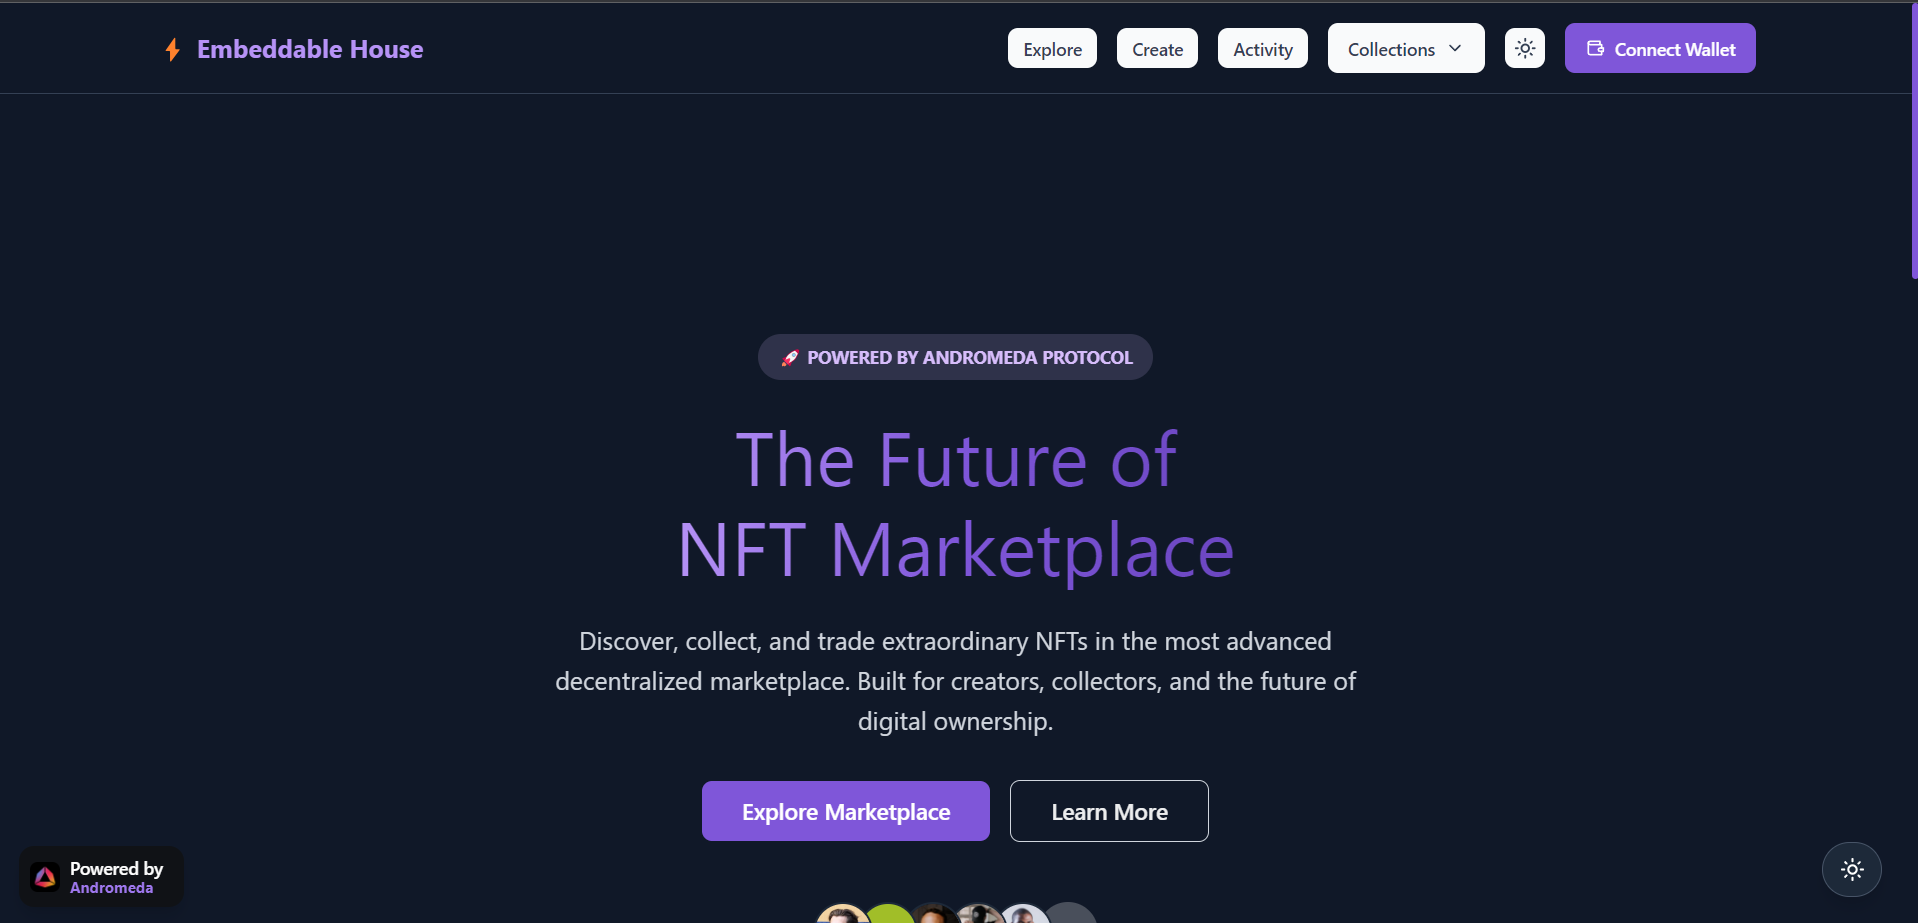
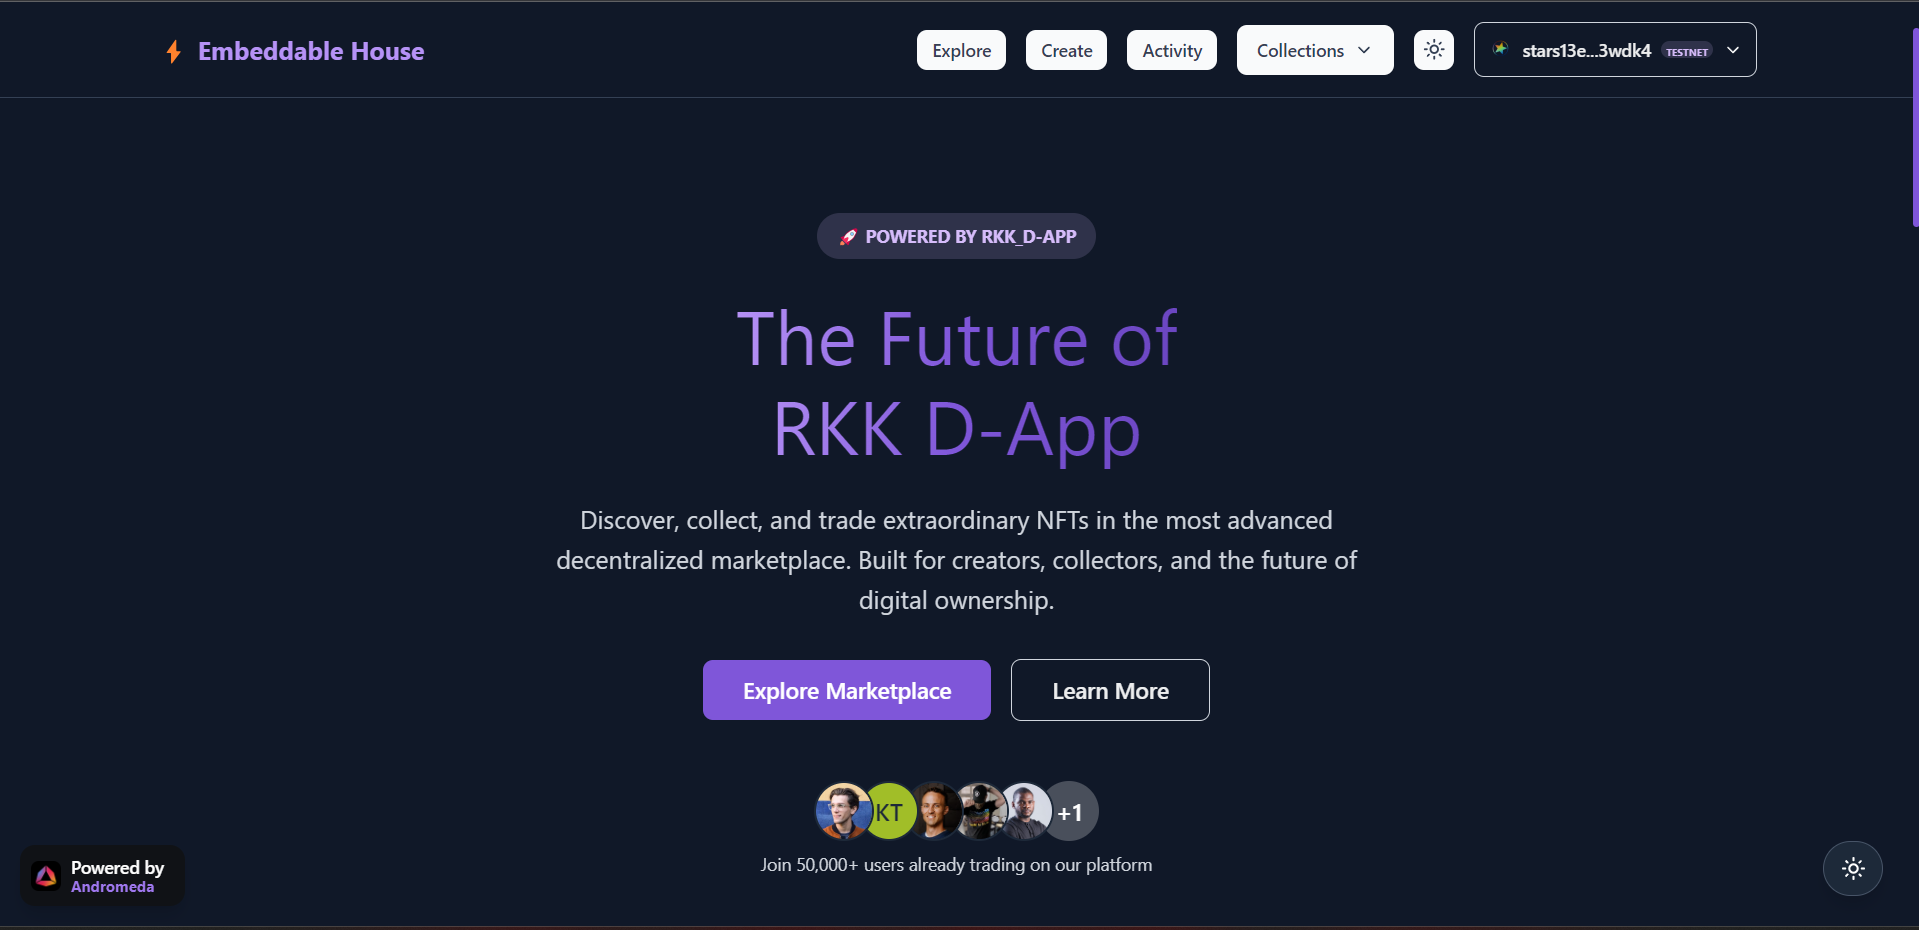
Update in UI

diff --git a/src/modules/home/components/LandingPage.tsx b/src/modules/home/components/LandingPage.tsx
@@ -108,7 +108,7 @@ const LandingPage: FC<LandingPageProps> = ({ onGetStarted }) => {
                             "tw-backdrop-blur-sm"
                         )}
                     >
-                        🚀 Powered by Andromeda Protocol
+                        🚀 Powered by RKK_D-App
                     </Badge>
 
                     <Heading
@@ -124,7 +124,7 @@ const LandingPage: FC<LandingPageProps> = ({ onGetStarted }) => {
                     >
                         The Future of
                         <br />
-                        NFT Marketplace
+                        RKK D-App
                     </Heading>
 
                     <Text

diff --git a/README.md b/README.md
@@ -4,13 +4,13 @@
 
 ![Andromeda Protocol](./public/logo.png)
 
-**A modern, responsive NFT marketplace built with Next.js and powered by Andromeda Protocol**
+**A modern, responsive RKK_D-App built with Next.js and powered by Andromeda Protocol**
 
 [![Next.js](https://img.shields.io/badge/Next.js-13.5.2-black?style=flat-square&logo=next.js)](https://nextjs.org/)
 [![React](https://img.shields.io/badge/React-18.2.0-blue?style=flat-square&logo=react)](https://reactjs.org/)
 [![TypeScript](https://img.shields.io/badge/TypeScript-4.8.3-blue?style=flat-square&logo=typescript)](https://www.typescriptlang.org/)
 [![Chakra UI](https://img.shields.io/badge/Chakra%20UI-2.8.1-green?style=flat-square&logo=chakraui)](https://chakra-ui.com/)
-[![Tailwind CSS](https://img.shields.io/badge/Tailwind%20CSS-3.0+-blue?style=flat-square&logo=tailwindcss)](https://tailwindcss.com/)
+[![Framer Motion](https://img.shields.io/badge/Framer%20Motion-10.16.4-ff69b4?style=flat-square&logo=framer)](https://www.framer.com/motion/)
 
 [Live Demo](#) • [Documentation](#features) • [API Reference](#tech-stack) • [Contributing](./CONTIBUTING.md)
 
@@ -20,7 +20,7 @@
 
 ## 📘 Project Description
 
-This project is a fully embeddable and responsive NFT marketplace powered by **Andromeda Protocol**. Built with **Next.js 13**, it features dual UI support with **Chakra UI** and **Tailwind CSS**, real-time blockchain interactions via **CosmWasm**, and native support for **Keplr Wallet**. Users can discover NFTs, participate in auctions, manage collections, and even embed token exchanges into any site.
+This project is a fully embeddable and responsive RKK_D-APP powered by **Andromeda Protocol**. Built with **Next.js 13**, it features **Chakra UI** components with **Framer Motion** animations, real-time blockchain interactions via **CosmWasm**, and native support for **Keplr Wallet**. Users can discover RKK_D-App, participate in auctions, manage collections, and even embed token exchanges into any site.
 
 ---
 
@@ -36,7 +36,7 @@ The vision behind this project is to empower creators, developers, and communiti
 - **University**: Sister Nivedita University
 - **Role**: Blockchain Developer & Web3 Explorer
 - **Projects**: BitMint Pay, TrustPay Card, ELEGENT_Card
-- **Focus**: NFTs, cross-chain UX, DeFi for creators
+- **Focus**: RKK_D-App, cross-chain UX, DeFi for creators
 - **GitHub**: [ROHIT8759](https://github.com/ROHIT8759)
 
 ---
@@ -49,12 +49,12 @@ As a blockchain student-developer, I was curious about how smart contracts could
 
 ## ✨ Features
 
-### 🎨 **Dual UI Framework Support**
+### 🎨 **Modern UI Framework**
 
 - **Chakra UI**: Complete component library with enhanced dark mode
-- **Tailwind CSS**: Utility-first framework for custom designs
-- **Seamless Toggle**: Switch between frameworks in real-time
-- **Consistent Design**: Unified experience across both implementations
+- **Framer Motion**: Smooth animations and transitions
+- **Responsive Design**: Mobile-first approach with breakpoint optimization
+- **Consistent Design**: Unified experience across all components
 
 ### 🌙 **Advanced Theme System**
 
@@ -65,10 +65,10 @@ As a blockchain student-developer, I was curious about how smart contracts could
 
 ### 🏪 **Marketplace Features**
 
-- **NFT Discovery**: Browse collections with advanced filtering
 - **Auction System**: Real-time bidding with live updates
 - **Token Exchange**: Multi-token trading capabilities
 - **Collection Management**: Comprehensive collection analytics
+- **Embeddable Components**: Ready-to-use marketplace widgets
 
 ### 🔗 **Blockchain Integration**
 
@@ -76,6 +76,13 @@ As a blockchain student-developer, I was curious about how smart contracts could
 - **CosmWasm**: Smart contract interactions
 - **Keplr Wallet**: Secure wallet connection
 - **Multi-Chain**: Support for Cosmos ecosystem
+
+### 🧩 **Extensible Architecture**
+
+- **Modular Design**: Easy to add new collection types
+- **Configurable Collections**: Simple configuration in `src/config.ts`
+- **Additional Features**: Crowdfunding module available (not configured by default)
+- **Plugin System**: Support for custom marketplace features
 
 ## 🚀 Quick Start
 
@@ -89,8 +96,8 @@ As a blockchain student-developer, I was curious about how smart contracts could
 
 ```bash
 # Clone the repository
-git clone https://github.com/ROHIT8759/embeddable-marketplace.git
-cd embeddable-marketplace
+git clone https://github.com/ROHIT8759/RKK_D-App.git
+cd RKK_D-App
 
 # Install dependencies
 npm install
@@ -101,12 +108,9 @@ npm run dev
 
 🎉 **Visit [http://localhost:3000](http://localhost:3000)** to see the marketplace in action!
 
-### 🎛 Framework Toggle
+### � **Theme Toggle**
 
-Use the toggle button in the navigation bar to switch between:
-
-- **Chakra UI** - Component-based approach
-- **Tailwind CSS** - Utility-first styling
+Click the theme toggle button in the top-right corner to switch between light and dark modes.
 
 ## 📱 Screenshots
 
@@ -117,11 +121,22 @@ Use the toggle button in the navigation bar to switch between:
 <img src="./docs/screenshots/landing-dark.png" alt="Landing Page Dark" width="400" />
 </div>
 
-### NFT Marketplace
+### RKK_Marketplace
 
 <div align="center">
-<img src="./docs/screenshots/marketplace.png" alt="Marketplace" width="400" />
-<img src="./docs/screenshots/collection.png" alt="Collection View" width="400" />
+<img src="./docs/screenshots/marketplace (2).png" alt="Marketplace" width="400" />
+</div>
+
+### RKK_Excgange
+
+<div align="center">
+<img src="./docs/screenshots/TokenExchange.png" alt="Excgange" width="400" />
+</div>
+
+### RKK_Auction
+
+<div align="center">
+<img src="./docs/screenshots/AutionPlatfrom.png" alt="Auction" width="400" />
 </div>
 
 ## 🛠 Tech Stack
@@ -132,11 +147,11 @@ Use the toggle button in the navigation bar to switch between:
 - **[React 18.2.0](https://reactjs.org/)** - UI library with concurrent features
 - **[TypeScript 4.8.3](https://www.typescriptlang.org/)** - Type safety and better DX
 
-### **UI Frameworks**
+### **UI Framework**
 
 - **[Chakra UI 2.8.1](https://chakra-ui.com/)** - Modular and accessible components
-- **[Tailwind CSS 3.0+](https://tailwindcss.com/)** - Utility-first CSS framework
 - **[Framer Motion 10.16.4](https://www.framer.com/motion/)** - Animation library
+- **[Lucide React](https://lucide.dev/)** - Beautiful SVG icons
 
 ### **Blockchain**
 
@@ -168,6 +183,9 @@ embeddable-marketplace-demo/
 │   │   ├── 📁 marketplace/    # Marketplace features
 │   │   ├── 📁 collection/     # Collection management
 │   │   ├── 📁 auction/        # Auction system
+│   │   ├── 📁 exchange/       # Token exchange
+│   │   ├── 📁 cw20/           # CW20 token support
+│   │   ├── 📁 cw721/          # CW721 NFT support
 │   │   └── 📁 common/         # Shared components
 │   ├── 📁 theme/              # UI theme configuration
 │   └── 📁 utils/              # Utility functions
@@ -210,14 +228,14 @@ NEXT_PUBLIC_CHAIN_NAME=Andromeda Testnet
 
 ### Tailwind CSS Setup
 
-The project includes a complete Tailwind CSS configuration with:
+The project includes Tailwind CSS integration alongside Chakra UI for additional styling flexibility:
 
-- **Custom Color Palette** - Andromeda Protocol branding
-- **Dark Mode Support** - Class-based dark mode
-- **Custom Animations** - Smooth transitions and effects
-- **Responsive Breakpoints** - Mobile-first design
+- **Chakra UI Components** - Primary component library
+- **Tailwind Utilities** - Additional styling utilities with `tw-` prefix
+- **Dark Mode Support** - Consistent theming across both systems
+- **Custom Animations** - Enhanced with Framer Motion
 
-See [`TAILWIND_INTEGRATION.md`](./TAILWIND_INTEGRATION.md) for detailed setup instructions.
+See [`src/styles/globals.css`](./src/styles/globals.css) for Tailwind configuration.
 
 ## 🧩 Embeddable Marketplace
 
@@ -236,12 +254,12 @@ Embed this link in your website or application to provide instant access to the 
 - **Persistent State**: Remembers user preference
 - **Smooth Transitions**: Animated theme switching
 
-### 🔄 **Framework Toggle**
+### 🔄 **Theme System**
 
-- **Real-time Switching**: No page reload required
-- **State Preservation**: Maintains application state
-- **Performance Optimized**: Code splitting for each framework
-- **Consistent UX**: Same functionality across frameworks
+- **Real-time Switching**: Seamless light/dark mode toggle
+- **State Preservation**: Remembers user preference across sessions
+- **System Integration**: Respects OS theme preference by default
+- **Smooth Transitions**: Animated theme switching with Framer Motion
 
 ### 📱 **Responsive Design**
 
@@ -269,16 +287,11 @@ We welcome contributions! Please see our [Contributing Guide](./CONTIBUTING.md) 
 - **TypeScript**: Type safety throughout
 - **Conventional Commits**: Structured commit messages
 
-## 📄 License
-
-This project is licensed under the MIT License - see the [LICENSE](./LICENSE) file for details.
 
 ## 🔗 Links
 
-- **[Andromeda Protocol](https://andromedaprotocol.io/)** - Official website
 - **[Documentation](https://docs.andromedaprotocol.io/)** - Protocol documentation
-- **[Discord](https://discord.gg/andromedaprotocol)** - Community chat
-- **[Twitter](https://twitter.com/andromedaprot)** - Latest updates
+
 
 ## 🙏 Acknowledgments
 

diff --git a/CONTIBUTING.md b/CONTIBUTING.md
@@ -1,31 +1,72 @@
-# WELCOME DEVELOPERS
+# Contributing to Embeddable Marketplace
 
-Please follow the codeguidelines while creating a PR.
+Thank you for your interest in contributing! Please follow these guidelines when creating a Pull Request.
 
 ## Routes Structure
 
-| Routes       | Description                                                                                                                                                                                                                                                                                |
-| ------------ | ------------------------------------------------------------------------------------------------------------------------------------------------------------------------------------------------------------------------------------------------------------------------------------------ |
-| [collection] | Each collection in config has a dedicated type ( auction, markeplace, crowdfund, etc ). Based on id of collection provided in config this url is dynamically generated                                                                                                                     |
-| cw721        | Most of our example uses cw721 as tokens. This route is specifically for cw721 rendering. Internally cw721 may render helper components like AuctionInfo, MarkeplaceInfo. If there is another ado used, create a dedicated route for it instead of adding switch statement for cw721 route |
-| [tokenId]    | Each token in cw721 has its dedicated page generated dynamically from contract data                                                                                                                                                                                                        |
+| Routes       | Description                                                                                                                                                                                                                                                                              |
+| ------------ | ---------------------------------------------------------------------------------------------------------------------------------------------------------------------------------------------------------------------------------------------------------------------------------------- |
+| [collection] | Each collection in config has a dedicated type (auction, marketplace, exchange, etc.). Based on id of collection provided in config this url is dynamically generated                                                                                                                    |
+| cw721        | Most examples use cw721 as NFT tokens. This route is specifically for cw721 rendering. Internally cw721 may render helper components like AuctionInfo, MarketplaceInfo. If there is another ADO used, create a dedicated route for it instead of adding switch statements in cw721 route |
+| cw20         | Route for CW20 token interactions and displays                                                                                                                                                                                                                                           |
+| [tokenId]    | Each token in cw721 has its dedicated page generated dynamically from contract data                                                                                                                                                                                                      |
 
 ## Config Structure
 
 | Field       | Description                                                                               |
 | ----------- | ----------------------------------------------------------------------------------------- |
 | Name        | Name of the Embeddable                                                                    |
-| Chain Id    | Chain Id for the embedabble to connect on. Any incompatible ado will probably throw error |
-| Collections | List of various collection. Collection can be auction, marketplace, crowdfund, etc.       |
+| Chain Id    | Chain Id for the embeddable to connect on. Any incompatible ADO will probably throw error |
+| Collections | List of various collections. Collection can be auction, marketplace, exchange, etc.       |
 
-For more info on config, take a look at config.json file
+For more info on config, take a look at `src/config.ts` file
 
-## How to create my own embeddable?
+## How to create your own embeddable?
 
-To run an embedabble using this approach, you will need to first create config file. Go to our webapp to create config file.
+To run an embeddable using this approach, you will need to first create a config file. Go to our webapp to create a config file.
 
-Once you have a valid config file, you can clone this project and replace config.json file.
+Once you have a valid config file, you can clone this project and replace the configuration in `src/config.ts`.
 
-_Do not forget to Uncomment code from AppProvider.tsx in private build_
+_Do not forget to uncomment code from AppProvider.tsx in private build_
 
-If you wish to preview your embeddable instead if cloning, you can use the link provided while creating the config file from webapp.
+If you wish to preview your embeddable instead of cloning, you can use the link provided while creating the config file from webapp.
+
+## Development Guidelines
+
+### Code Style
+
+- Follow TypeScript best practices
+- Use ESLint and Prettier for consistent formatting
+- Write meaningful commit messages following conventional commits
+- Add proper JSDoc comments for functions and components
+
+### Pull Request Process
+
+1. **Fork** the repository
+2. **Create** a feature branch (`git checkout -b feature/your-feature-name`)
+3. **Implement** your changes with proper testing
+4. **Commit** your changes (`git commit -m 'feat: add amazing feature'`)
+5. **Push** to your branch (`git push origin feature/your-feature-name`)
+6. **Create** a Pull Request with a clear description
+
+### Testing
+
+- Ensure your code builds without errors (`npm run build`)
+- Run linting checks (`npm run lint`)
+- Test your changes across different screen sizes
+- Verify both light and dark mode functionality
+
+### Component Guidelines
+
+- Use Chakra UI components when possible
+- Follow the existing theming system with `useColorModeValue`
+- Ensure accessibility with proper ARIA labels
+- Keep components small and focused on single responsibility
+
+### Adding New Collection Types
+
+1. Define the new type in `src/lib/app/types.ts`
+2. Add configuration in `src/config.ts`
+3. Create components in appropriate module folder
+4. Add routing if needed in app directory
+5. Update documentation
